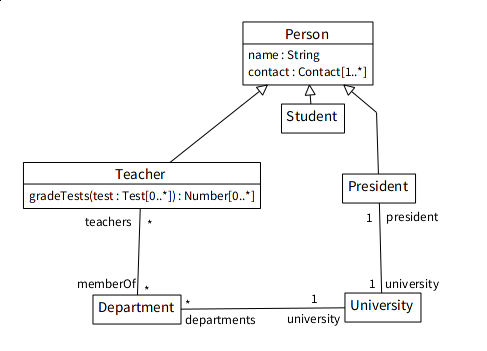
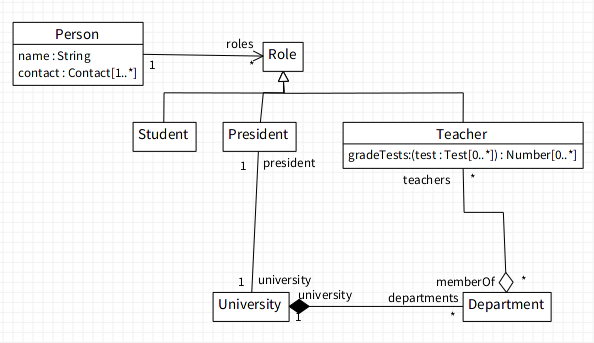
DSL docs fixes.

Changed region(s): [[0.0, 0.0583, 0.9856, 0.758], [0.154, 0.6414, 0.9548, 0.9329], [0.2772, 0.6706, 0.308, 0.7289]]

diff --git a/docs/dsl/class-dsl.md b/docs/dsl/class-dsl.md
@@ -6,17 +6,19 @@ Note however that not all features of UML are supported. This limitation is caus
 
 ```txt
 Person {
-	name : String
-	contact: Contact[1..*]
+	    name : String
+		    contact: Contact[1..*]
 }
 
 Teacher {
-	gradeTests:(test: Test[*]): Number[*]
+	    gradeTests:(test: Test[*]): Number[*]
 }
 
-Teacher extends Person;
-Student >> Person;
-President >> Person;
+Teacher extends Role;
+Student >> Role;
+President >> Role;
+
+Person --> roles Role[*];
 
 President president --- university University;
 University[1] university <*>-- departments Department[*];
@@ -50,7 +52,7 @@ Create an empty class `SubClass` as a subclass of a `ParentClass`. If the parent
 To add inheritance, use
 
 ```
-<del>SubClass < ParentClass { }</del> "@todo"
+~~SubClass < ParentClass { }~~ "@todo"
 
 SubClass >> ParentClass;
 "or"
@@ -78,11 +80,11 @@ Furthermore if both bounds are equal, or the lower bound is `0` and upper bound 
 
 Examples:
 
-|full range|shortcut|
-|-|-|
-|0..1||
-|10..10|10|
-|0..\*|\*|
+full range | shortcut
+---------- | --------
+0..1|
+10..10|10
+0..\*|\*
 
 > Designators (`isUnique` and `isOrdered`) are not supported.
 
